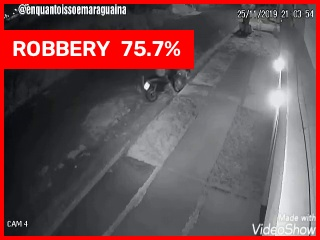
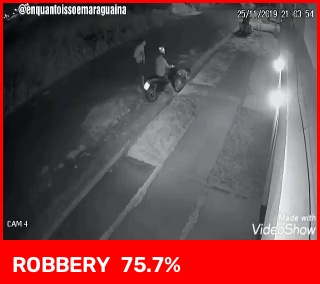
something

diff --git a/maincode/main.py b/maincode/main.py
@@ -500,7 +500,18 @@ def _start_stream_server():
     # though it was running fine) and aborted the launch every time.
     write_runtime_port("ai_core", actual_port)
     print(f"📡 Dynamic Stream server live → http://localhost:{actual_port}/video_feed")
-    uvicorn.run(stream_app, host=sys_config["backend"]["host"], port=actual_port, log_level="error")
+    # BUG FOUND 2026-09-03: this used to bind to sys_config["backend"]["host"]
+    # -- 0.0.0.0, copied from backend.py's own bind, which genuinely does need
+    # LAN reachability for a future multi-machine deployment. /video_feed has
+    # no such need and no auth check to protect it if it did: CORS above only
+    # covers fetch()-based endpoints, NOT a plain <img src="...">/GET request
+    # like a browser (or curl, or VLC) makes against a stream -- that request
+    # never carries an Origin header for CORS to check in the first place, so
+    # the "local single-user desktop app" reasoning in this file's own CORS
+    # comment above was already the intent; the bind just didn't match it.
+    # Confirmed nothing relies on reaching this from another machine, so this
+    # is hardcoded to loopback rather than inheriting backend.host.
+    uvicorn.run(stream_app, host="127.0.0.1", port=actual_port, log_level="error")
 
 threading.Thread(target=_start_stream_server, daemon=True).start()
 
@@ -1338,18 +1349,35 @@ def _draw_alert_banner(frame, event: str, conf: float):
     Drawn on a COPY of the frame at snapshot time, never the live frame --
     stamping the real frame would flash a red border through the operator's
     video feed and into the event clip for one frame.
+
+    BUG FOUND 2026-09-03 (user report, looking at real evidence frames): the
+    label used to be a FILLED rectangle painted directly over the top-left of
+    the actual scene -- on the real robbery evidence frame this is drawn
+    from, that's exactly where the subject was standing, so the one piece of
+    evidence meant to show what happened was covering it up. Fixed by adding
+    a solid strip BELOW the frame for the label and border, so every pixel
+    the camera actually captured stays visible -- the alert text now sits
+    outside the scene, not on top of it. Returns a NEW (taller) array rather
+    than mutating in place, since the output is no longer the same shape as
+    the input; the one caller (the evidence-snapshot flush) already treats
+    the return value as the image to write, not `frame` itself.
     """
     color = _ALERT_BANNER_COLOR.get(event, (0, 0, 255))
     h, w = frame.shape[:2]
-    cv2.rectangle(frame, (0, 0), (w - 1, h - 1), color, 6)
     label = f"{event}  {conf * 100:.1f}%"
     (tw, th), _ = cv2.getTextSize(label, cv2.FONT_HERSHEY_SIMPLEX, 0.75, 2)
-    # Offset below the FPS/tracks HUD, which is already drawn at the very
-    # top-left by the time a snapshot is taken.
-    y0 = 30
-    cv2.rectangle(frame, (0, y0), (tw + 24, y0 + th + 18), color, -1)
-    cv2.putText(frame, label, (12, y0 + th + 6),
+    strip_h = th + 24
+
+    canvas = np.zeros((h + strip_h, w, 3), dtype=frame.dtype)
+    canvas[:h] = frame
+    canvas[h:] = color
+    cv2.putText(canvas, label, (12, h + strip_h - 12),
                 cv2.FONT_HERSHEY_SIMPLEX, 0.75, (255, 255, 255), 2, cv2.LINE_AA)
+    # A thin accent border around the whole thing (scene + strip) so a
+    # flagged frame is still visually distinct at a glance -- only the
+    # outermost few pixels, never anything the camera actually saw.
+    cv2.rectangle(canvas, (0, 0), (w - 1, h + strip_h - 1), color, 3)
+    return canvas
 
 def _draw_x3d_crop_box(frame, crop_box, is_violent: bool, conf: float):
     if crop_box is None:
@@ -2371,19 +2399,45 @@ while _running:
 
             prev_joints[tid] = joints[[9, 10]].copy()
 
-            # In scene mode the frame-level verdict IS the detection; pose is
-            # kept only to attribute it to a person (which box to draw, which
-            # track to name in the alert) and to drive the weapon/robbery/
-            # vandalism rules, which are unaffected. "both" still runs the
-            # per-track model so its overlay stays available for comparison,
-            # but the scene verdict is what decides.
+            # BUG FOUND 2026-09-03 (user report, real evidence frame): scene
+            # mode used to hand EVERY visible track the exact same
+            # scene_violent verdict, with no per-person signal behind it at
+            # all -- "pose is kept only to attribute it to a person" below was
+            # aspirational, not actually true. Each track's box-coloring
+            # confirmation counter (ts.update further down) runs
+            # independently, so whichever track's OWN counter happened to hit
+            # ASSAULT_CONFIRM_FRAMES first won the red box: a race with no
+            # relationship to who was actually involved. A bystander winning
+            # that race in a crowded scene was not a fluke, it was this code
+            # working as written.
+            #
+            # Real fix: always run the per-track model too -- previously
+            # reserved for VIOLENCE_MODE == "both"'s side-by-side overlay --
+            # and use ITS score for attribution, exactly the same call and
+            # the same EMA/consecutive-confirm smoothing the pure "track"
+            # mode below already trusted on its own. This is why the old
+            # scene/track branches collapse into one: attribution should work
+            # identically either way, only WHETHER an alert exists should
+            # differ between modes.
+            #
+            # scene_violent still independently guarantees the alert fires
+            # even when no single track's crop clears its own bar -- the
+            # scene-fallback path further below reads scene_violent directly,
+            # never this track's is_violent_x3d. So this only changes WHO
+            # gets boxed once an alert is already going to fire, never
+            # WHETHER one fires: a scene-confirmed frame where no individual
+            # crop agrees now shows the (already-fixed) frame-level banner
+            # with no specific person highlighted, rather than confidently
+            # pointing at the wrong one.
+            #
+            # Cost: one extra X3D forward per tracked person per
+            # check_interval, whenever violence detection runs at all --
+            # scaling with crowd size the way pure scene mode's steady-state
+            # deliberately didn't. Same per-track cost "both" mode already
+            # pays and has shipped with; see README's Violence detection
+            # entry for the updated cost note.
             is_violent_x3d, x3d_conf = (False, 0.0)
-            if VIOLENCE_ON and SCENE_MODE_ON:
-                if VIOLENCE_MODE == "both":
-                    x3d_detector.update(tid, frame, p_box, frame_count, all_boxes=boxes)
-                    _draw_x3d_confidence(frame, p_box, x3d_detector.get_debug_info(tid))
-                is_violent_x3d, x3d_conf = scene_violent, scene_conf
-            elif VIOLENCE_ON:
+            if VIOLENCE_ON:
                 is_violent_x3d, x3d_conf = x3d_detector.update(tid, frame, p_box, frame_count, all_boxes=boxes)
                 _draw_x3d_confidence(frame, p_box, x3d_detector.get_debug_info(tid))
                 _draw_x3d_crop_box(frame, x3d_detector.get_crop_box(tid), is_violent_x3d, x3d_conf)
@@ -2403,10 +2457,11 @@ while _running:
             state = ts.update(is_assault, has_weapon, frame_count, override_assault_confirm=override_confirm)
 
             if active_pip_crop is None or state in ["ASSAULT", "ARMED"]:
-                # Scene mode never fills the per-track crop cache, so fall back
-                # to a plain padded crop of this person's box -- the PIP is an
-                # operator aid ("who is this alert about"), and it would
-                # otherwise go blank for every scene-mode alert.
+                # x3d_detector.update() above now runs (and fills this track's
+                # crop cache) in scene mode too, not just "track"/"both" -- see
+                # the 2026-09-03 attribution fix above -- so this fallback now
+                # mainly covers the first frame or two before any track has
+                # been through update() yet, rather than all of scene mode.
                 live_crop_patch = x3d_detector.get_latest_live_crop(tid)
                 if live_crop_patch is None and SCENE_MODE_ON:
                     live_crop_patch = _pip_crop_from_box(frame, p_box)
@@ -2598,8 +2653,7 @@ while _running:
         snap_path = os.path.join(SCREENSHOTS_DIR, snap_filename)
         # Copy first: the banner must land ONLY in the evidence image, not in
         # the live stream or the event clip (both consume `frame` below).
-        snap_frame = frame.copy()
-        _draw_alert_banner(snap_frame, alert["event"], alert["conf"])
+        snap_frame = _draw_alert_banner(frame.copy(), alert["event"], alert["conf"])
         cv2.imwrite(snap_path, snap_frame)
         screenshot_url_path = f"/static/screenshots/{snap_filename}"
         _alert_exec.submit(_post_alert, alert['id'], alert['conf'], alert['event'], screenshot_url_path)

diff --git a/app/backend.py b/app/backend.py
@@ -313,6 +313,34 @@ SCREENSHOTS_DIR = os.path.join(WRITABLE_DIR, "static", "screenshots")
 os.makedirs(RECORDINGS_DIR, exist_ok=True)
 os.makedirs(SCREENSHOTS_DIR, exist_ok=True)
 
+# BUG FOUND 2026-09-03 (full-system audit): register_clip and ai_register_clip
+# below both did os.path.join(RECORDINGS_DIR, data.filename) and trusted the
+# result -- but os.path.join DISCARDS its first argument entirely when the
+# second is an absolute path (confirmed: os.path.join(RECORDINGS_DIR,
+# r"C:\Users\User\.env") returns exactly "C:\Users\User\.env"), and a
+# "../../.." relative filename walks back out at the OS level when the path
+# is actually opened, even though the string itself still starts with
+# RECORDINGS_DIR. Either one lets a caller register a video_records row whose
+# file_path points ANYWHERE on disk. DELETE /api/records/{id} later calls
+# os.remove(row["file_path"]) unconditionally on that value -- so a single
+# malicious clip registration, combined with nothing more than an admin's
+# routine "delete this broken-looking recording" click, deletes an arbitrary
+# file the attacker chose, not the recording. ai_register_clip has NO
+# authentication at all (same "local AI pipeline caller" reasoning as
+# ai_trigger) and backend.py binds 0.0.0.0, so this is reachable by anything
+# on the same network, no login required. register_clip requires a session
+# but not any specific permission, so any authenticated role (even the
+# lowest-privileged operator) could plant the same trap for an admin to
+# trigger. Resolving both the target and RECORDINGS_DIR to their real,
+# symlink-free absolute form and checking containment closes both the
+# absolute-path and the "../" cases the same way.
+def _safe_recordings_path(filename: str) -> str:
+    real_dir = os.path.realpath(RECORDINGS_DIR)
+    candidate = os.path.realpath(os.path.join(real_dir, filename))
+    if os.path.commonpath([real_dir, candidate]) != real_dir:
+        raise HTTPException(status_code=400, detail="Invalid filename.")
+    return candidate
+
 def _ai_core_capture_url() -> str:
     # AI core (maincode/main.py) may have landed on a fallback port if 8001
     # was taken -- read its actual bound port from runtime_ports.json
@@ -541,41 +569,71 @@ def init_db():
             cursor.execute("UPDATE users SET password = ? WHERE id = ?", (hash_password(pw), row_id))
     conn.commit()
 
-    cursor.execute("SELECT COUNT(*) FROM users WHERE role = 'DEVTEAM'")
-    if cursor.fetchone()[0] == 0:
-        # Static if DEVTEAM_BOOTSTRAP_USERNAME/PASSWORD are set in the
-        # environment (.env, not committed, not in .env.example -- each
-        # deployer sets their own) -- a fixed team login instead of a fresh
-        # random one every time the DB is recreated. Falls back to the old
-        # random-per-boot behavior when they're unset, so a checkout with no
-        # .env configured still boots into a usable, safe default.
-        bootstrap_username = os.environ.get("DEVTEAM_BOOTSTRAP_USERNAME")
-        bootstrap_password = os.environ.get("DEVTEAM_BOOTSTRAP_PASSWORD")
-        static = bool(bootstrap_username and bootstrap_password)
-        if not static:
+    # Static if DEVTEAM_BOOTSTRAP_USERNAME/PASSWORD are set in the
+    # environment (.env, not committed, not in .env.example -- each deployer
+    # sets their own) -- a fixed team login instead of a fresh random one
+    # every time the DB is recreated. Falls back to the old random-per-boot
+    # behavior when they're unset, so a checkout with no .env configured
+    # still boots into a usable, safe default.
+    bootstrap_username = os.environ.get("DEVTEAM_BOOTSTRAP_USERNAME")
+    bootstrap_password = os.environ.get("DEVTEAM_BOOTSTRAP_PASSWORD")
+    static = bool(bootstrap_username and bootstrap_password)
+
+    if static:
+        # BUG FOUND 2026-09-03 (user report: the installer's fixed testing
+        # login doesn't work). This used to live entirely inside the
+        # `COUNT(*) == 0` branch below, i.e. it only ever ran on a genuinely
+        # empty database. electron/main.js's TESTING_PHASE_FIXED_CREDENTIALS
+        # shows this exact username/password in a dialog on EVERY launch, not
+        # just the first, promising "the same login every time" -- but any
+        # machine that had EVER run an earlier build (a different static
+        # password, or before this env var existed at all, or the old random
+        # bootstrap path) already had a DEVTEAM row, so this whole block was
+        # skipped and that machine kept whatever password was baked in back
+        # then, forever, with no way to tell it had drifted from what the
+        # dialog now claims. Syncing the password on every boot whenever
+        # static credentials are configured is what actually makes that
+        # promise true, instead of only being true on a machine's very first
+        # boot ever.
+        cursor.execute("SELECT id FROM users WHERE username = ? AND role = 'DEVTEAM'", (bootstrap_username,))
+        existing = cursor.fetchone()
+        if existing:
+            cursor.execute("UPDATE users SET password = ? WHERE id = ?", (hash_password(bootstrap_password), existing[0]))
+            conn.commit()
+        else:
+            cursor.execute(
+                "INSERT INTO users (username, password, role, barangay_id, assignment, parent_admin_id) "
+                "VALUES (?, ?, 'DEVTEAM', NULL, 'DevTeam HQ', NULL)",
+                (bootstrap_username, hash_password(bootstrap_password)),
+            )
+            conn.commit()
+            print("=" * 60)
+            print("🔑 [BOOTSTRAP] First-run DEVTEAM account created (static, from .env):")
+            print(f"    username: {bootstrap_username}")
+            print("=" * 60)
+    else:
+        cursor.execute("SELECT COUNT(*) FROM users WHERE role = 'DEVTEAM'")
+        if cursor.fetchone()[0] == 0:
             bootstrap_username = "devteam"
             bootstrap_password = secrets.token_urlsafe(12)
-        cursor.execute(
-            "INSERT INTO users (username, password, role, barangay_id, assignment, parent_admin_id) "
-            "VALUES (?, ?, 'DEVTEAM', NULL, 'DevTeam HQ', NULL)",
-            (bootstrap_username, hash_password(bootstrap_password)),
-        )
-        conn.commit()
-        print("=" * 60)
-        print(f"🔑 [BOOTSTRAP] First-run DEVTEAM account created ({'static, from .env' if static else 'random'}):")
-        print(f"    username: {bootstrap_username}")
-        if not static:
+            cursor.execute(
+                "INSERT INTO users (username, password, role, barangay_id, assignment, parent_admin_id) "
+                "VALUES (?, ?, 'DEVTEAM', NULL, 'DevTeam HQ', NULL)",
+                (bootstrap_username, hash_password(bootstrap_password)),
+            )
+            conn.commit()
+            print("=" * 60)
+            print("🔑 [BOOTSTRAP] First-run DEVTEAM account created (random):")
+            print(f"    username: {bootstrap_username}")
             print(f"    password: {bootstrap_password}")
             print("    Save this now -- it will not be shown again.")
-        print("=" * 60)
-        # Only write the plaintext password to disk for the random case --
-        # a static password already lives in the deployer's own .env, so a
-        # second plaintext copy on disk would just be one more place it can
-        # leak from.
-        if not static:
+            print("=" * 60)
             # Also write to a file next to the writable data dir, since a
             # packaged installer build has no visible console for the person
             # to read this from (see Phase 3: first-run credential surfacing).
+            # Only done for the random case -- a static password already
+            # lives in the deployer's own .env, so a second plaintext copy on
+            # disk would just be one more place it can leak from.
             try:
                 cred_path = os.path.join(WRITABLE_DIR, "devteam_credentials.txt")
                 with open(cred_path, "w") as f:
@@ -2117,7 +2175,7 @@ async def register_clip(data: ManualClipSchema, authorization: Optional[str] = H
     cursor = conn.cursor()
     rid = str(uuid.uuid4())
     now_str = datetime.now().strftime("%Y-%m-%d %H:%M:%S")
-    fpath = os.path.join(RECORDINGS_DIR, data.filename)
+    fpath = _safe_recordings_path(data.filename)
     # BUG FOUND 2026-08-19: same missing barangay_id as /api/ai_register_clip
     # below -- see that endpoint's comment. An operator manually extracting a
     # segment is scoped to their own barangay; a PNP account's token carries
@@ -2165,7 +2223,7 @@ async def ai_register_clip(data: ManualClipSchema):
     cursor = conn.cursor()
     rid = str(uuid.uuid4())
     now_str = datetime.now().strftime("%Y-%m-%d %H:%M:%S")
-    fpath = os.path.join(RECORDINGS_DIR, data.filename)
+    fpath = _safe_recordings_path(data.filename)
     # BUG FOUND 2026-08-19: this never set barangay_id, so every AI-triggered
     # clip landed with it NULL. apply_scope() (used by GET /api/records)
     # restricts every non-DEVTEAM role to "LOWER(barangay_id) = ?" -- NULL

diff --git a/README.md b/README.md
@@ -54,7 +54,7 @@ Every detector runs on the same live feed and shares the same pipeline shape: **
 
 ![Live pose tracking and per-person detection, running on real footage](docs/media/violence_detection.gif)
 
-**2. Violence and robbery run an X3D-XS video classifier** — a 3D-convolutional network that looks at a short clip (13 frames), not a single image, because a raised fist and a wave look identical in one frame and completely different across ten. Two modes exist: **scene mode** (the default) classifies the whole frame every few frames, which is both more accurate on this dataset (measured: 79.0% accuracy / 76.0% recall vs. 69.5%/65.5% for the older per-track mode) and cheaper, since it's one forward pass regardless of how many people are on screen. Robbery uses the identical architecture with its own checkpoint and threshold, run independently — a robbery involving a shove should be able to raise both alerts, not have one steal the other's probability mass. Below: the deployed robbery checkpoint firing on real CamNuvem CCTV footage its training run never saw, going from quiet to a confirmed alert at 75.7% as the buffer fills:
+**2. Violence and robbery run an X3D-XS video classifier** — a 3D-convolutional network that looks at a short clip (13 frames), not a single image, because a raised fist and a wave look identical in one frame and completely different across ten. Two modes exist: **scene mode** (the default) classifies the whole frame every few frames, which is more accurate on this dataset (measured: 79.0% accuracy / 76.0% recall vs. 69.5%/65.5% for per-track alone) at deciding *whether* a frame is violent. It used to also be cheaper, on the assumption that deciding *who* it involves didn't matter — it did: a real evidence frame showed the wrong person highlighted, because scene mode broadcast the same whole-frame verdict to everyone on screen and let whichever person's own confirmation counter happened to fire first win the box, with no relationship to who was actually involved. Fixed 3 Sep by always running the per-track model too and using its own score for attribution — confirmed on real multi-person footage: the one person visibly walking away from a fight scored 0.43 while people in the actual altercation scored 0.89–0.99, a real, meaningful gap, not noise. Scene mode still decides whether an alert fires; the per-track score now decides who gets boxed, and a frame with no individual score to back it up shows the alert banner with no one singled out, rather than guessing. The trade: cost now scales with how many people are in frame again, the thing scene mode was originally chosen partly to avoid. Robbery uses the identical scene architecture with its own checkpoint and threshold, run independently — a robbery involving a shove should be able to raise both alerts, not have one steal the other's probability mass. Below: the deployed robbery checkpoint firing on real CamNuvem CCTV footage its training run never saw, going from quiet to a confirmed alert at 75.7% as the buffer fills:
 
 ![Robbery detector firing on real, held-out CCTV footage](docs/media/robbery_detection.gif)
 
